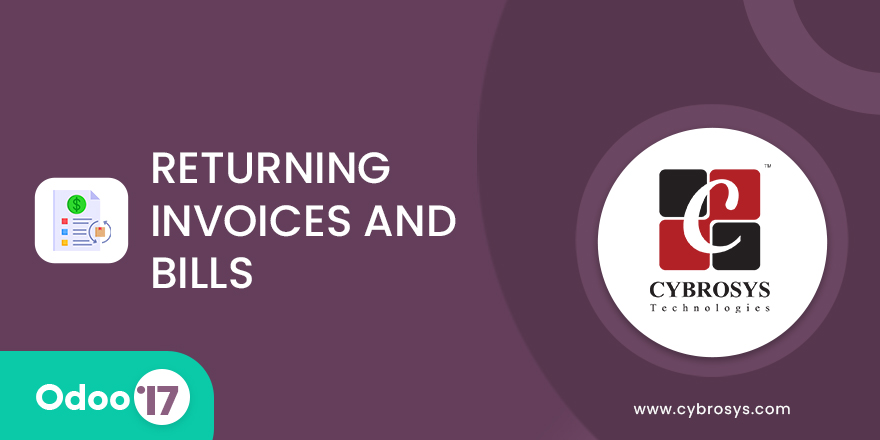
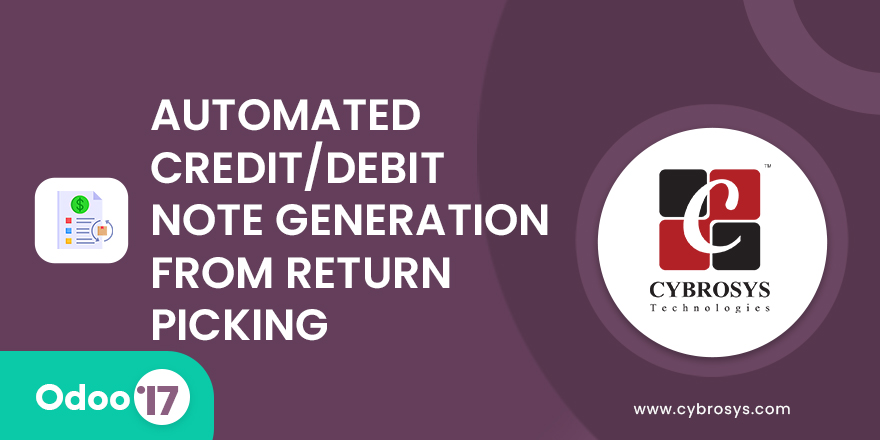
Aug 3 [UPDT] Updated 'return_invoice_bill'

Changed region(s): [[0.0614, 0.325, 0.6443, 0.5614], [0.1534, 0.5614, 0.5216, 0.7682], [0.1534, 0.2068, 0.4909, 0.2955]]

diff --git a/return_invoice_bill/static/description/index.html b/return_invoice_bill/static/description/index.html
@@ -45,7 +45,7 @@
                  style="margin: 80px 0px !important;">
                 <h1 style="font-size: 2.8rem;font-weight: 700; color:
                     #1A202C;">
-                    Return Invoices And Bills</h1>
+                    Automated Credit/Debit Note Generation from Return Picking</h1>
                 <p class="my-3 mb-4"
                    style="max-width: 80%; font-weight: 400 !important; line-height: 32px; color: #718096;">
                     Allows Us To Return The Credit Note And Debit Note From The Corresponding Return Form.
@@ -443,7 +443,7 @@
                             <div class="px-3">
                                 <h4 class="mt-2"
                                     style=" font-weight:600 !important; color:#282F33 !important; font-size:1.3rem !important">
-                                    Redirect to the Reverse Bill of the Return
+                                    Redirect to the Reverse Invoice of the Return
                                 </h4>
                             </div>
                         </div>
@@ -523,7 +523,7 @@
                             </div>
                             <p class="m-0"
                                style=" color:#718096!important; font-size:1rem !important;line-height: 28px;">
-                                Initial Commit for Return Invoices And Bills.</p>
+                                Initial Commit for Automated Credit/Debit Note Generation from Return Picking.</p>
                         </div>
                     </div>
                 </div>

diff --git a/return_invoice_bill/models/stock_return_picking.py b/return_invoice_bill/models/stock_return_picking.py
@@ -38,7 +38,11 @@ class StockReturnPicking(models.TransientModel):
         active_id = self.env.context['active_id']
         if active_model == 'stock.picking' and active_id:
             stock_picking = self.env[active_model].browse(active_id)
-            result['picking_type_name'] = stock_picking.picking_type_id.name
+            picking_type = stock_picking.picking_type_id
+            result['picking_type_name'] = self.env['ir.model.data'].search([
+                ('model', '=', 'stock.picking.type'),
+                ('res_id', '=', picking_type.id)
+            ]).complete_name
         return result
 
     def _update_stock_picking(self):
@@ -65,7 +69,6 @@ class StockReturnPicking(models.TransientModel):
         """
         Perform the action of returning moves with credit notes and update the
         stock picking accordingly.
-
         Returns:
             ir.actions.actions: Action object for returning moves with credit
             notes.
@@ -77,7 +80,6 @@ class StockReturnPicking(models.TransientModel):
         """
         Perform the action of returning moves with debit notes and update the
         stock picking accordingly.
-
         Returns:
             ir.actions.actions: Action object for returning moves with debit
             notes.

diff --git a/return_invoice_bill/__manifest__.py b/return_invoice_bill/__manifest__.py
@@ -20,8 +20,8 @@
 #
 ##############################################################################
 {
-    "name": "Return Invoices And Bills",
-    "version": "17.0.1.0.0",
+    "name": "Automated Credit/Debit Note Generation from Return Picking",
+    "version": "17.0.1.0.1",
     "category": "Sales",
     "summary": "For creating credit note and debit note while picking.",
     "description": "We can create credit note or debit note while return the"

diff --git a/return_invoice_bill/wizard/return_move.py b/return_invoice_bill/wizard/return_move.py
@@ -19,8 +19,8 @@
 #    If not, see <http://www.gnu.org/licenses/>.
 #
 ##############################################################################
-from odoo.exceptions import ValidationError
 from odoo import fields, models
+from odoo.exceptions import ValidationError
 
 
 class ReturnMove(models.TransientModel):

diff --git a/return_invoice_bill/models/stock_picking.py b/return_invoice_bill/models/stock_picking.py
@@ -19,7 +19,7 @@
 #    If not, see <http://www.gnu.org/licenses/>.
 #
 ##############################################################################
-from odoo import api, fields, models, _
+from odoo import api, fields, models
 
 
 class StockPicking(models.Model):

diff --git a/return_invoice_bill/README.rst b/return_invoice_bill/README.rst
@@ -2,9 +2,9 @@
    :target: https://www.gnu.org/licenses/agpl-3.0-standalone.html
    :alt: License: AGPL-3
 
-Return Invoices And Bills
-=========================
-This module allow to return the invoice  or bill while picking the product in Odoo17.
+Automated Credit/Debit Note Generation from Return Picking
+==========================================================
+This module allow to return the invoice or bill while picking the product in Odoo17.
 
 Company
 -------

diff --git a/return_invoice_bill/doc/RELEASE_NOTES.md b/return_invoice_bill/doc/RELEASE_NOTES.md
@@ -1,6 +1,11 @@
 ## Module <return_invoice_bill>
 
+#### 02.08.2024
+#### Version 17.0.1.0.1
+#### ADD
+- Fixed the issues while changing the language.
+
 #### 03.04.2024
 #### Version 17.0.1.0.0
 #### ADD
-- Initial commit for Return Invoices And Bills  
+- Initial commit for Automated Credit/Debit Note Generation from Return Picking   
